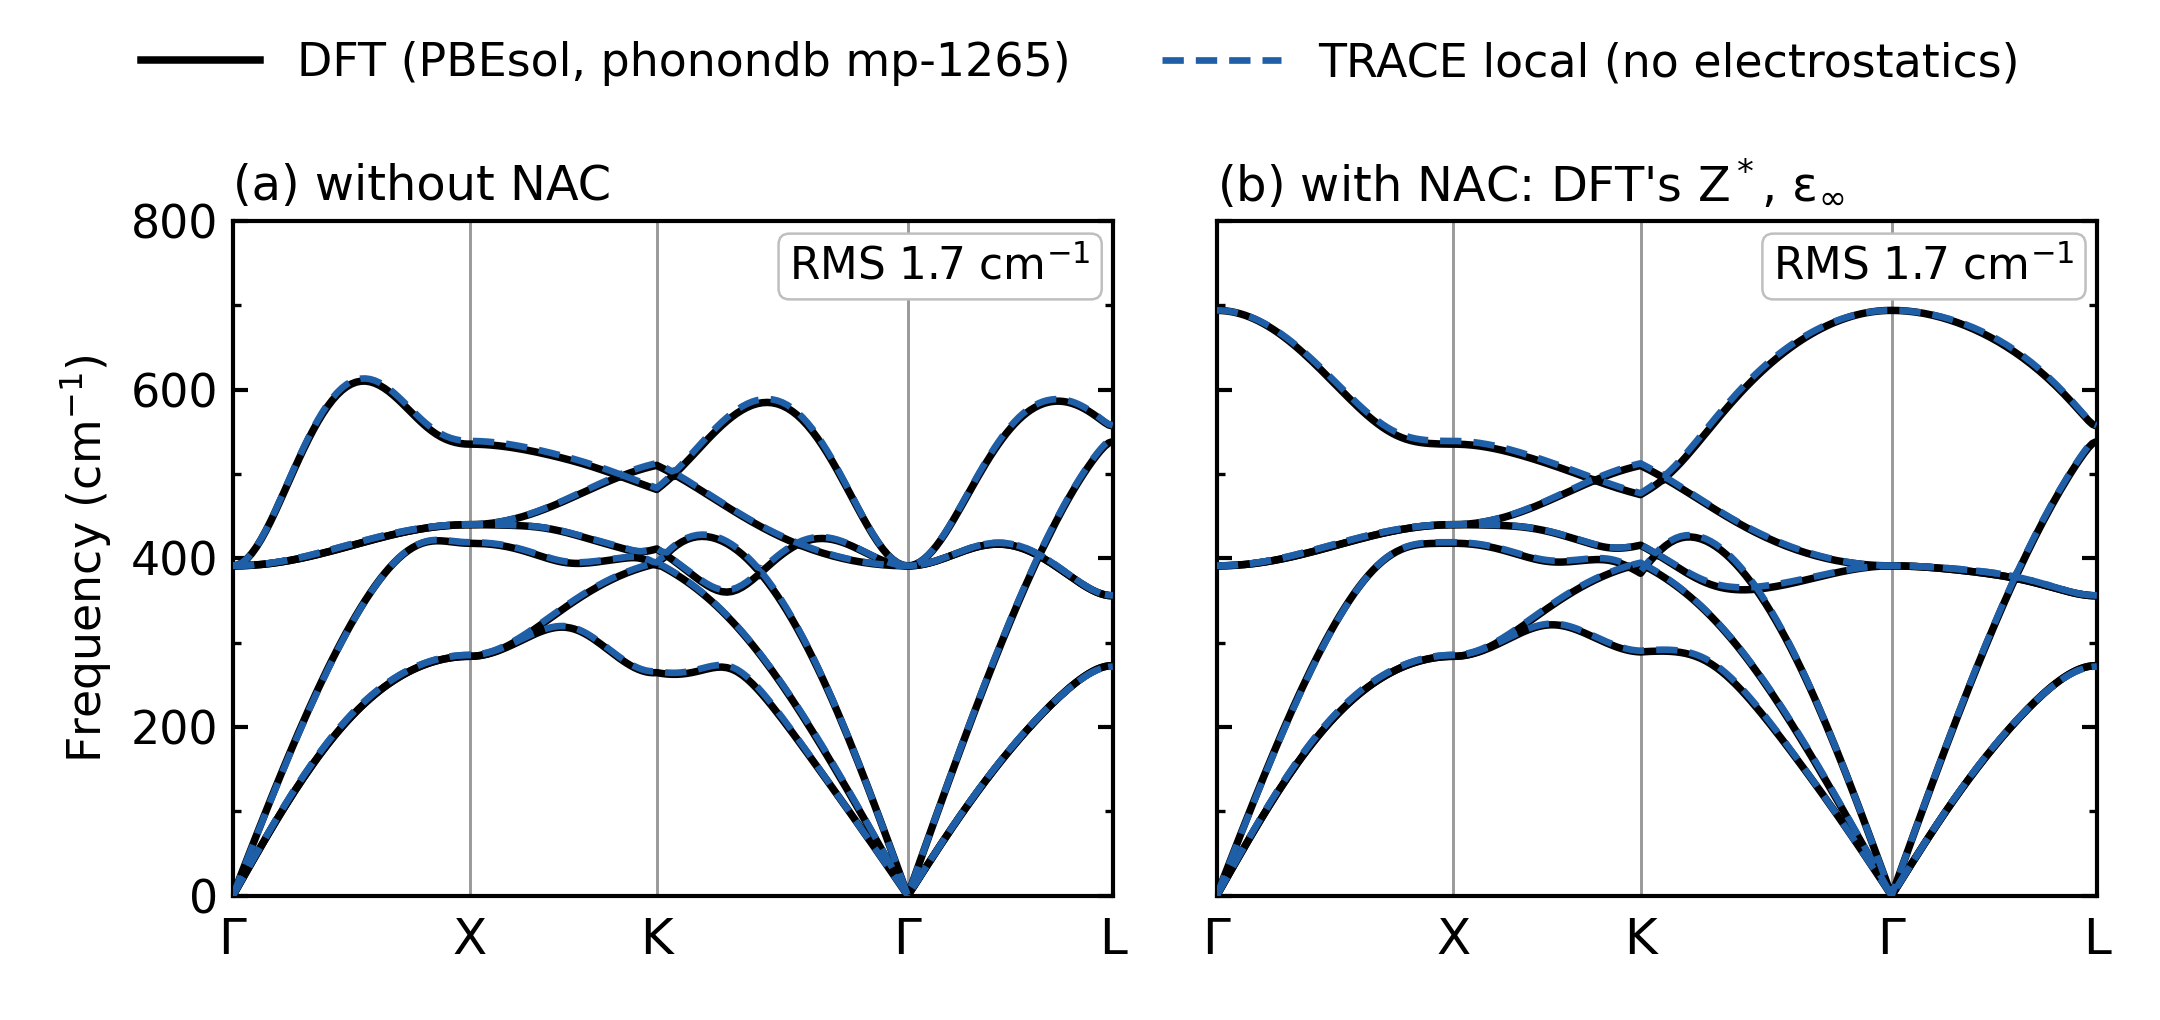
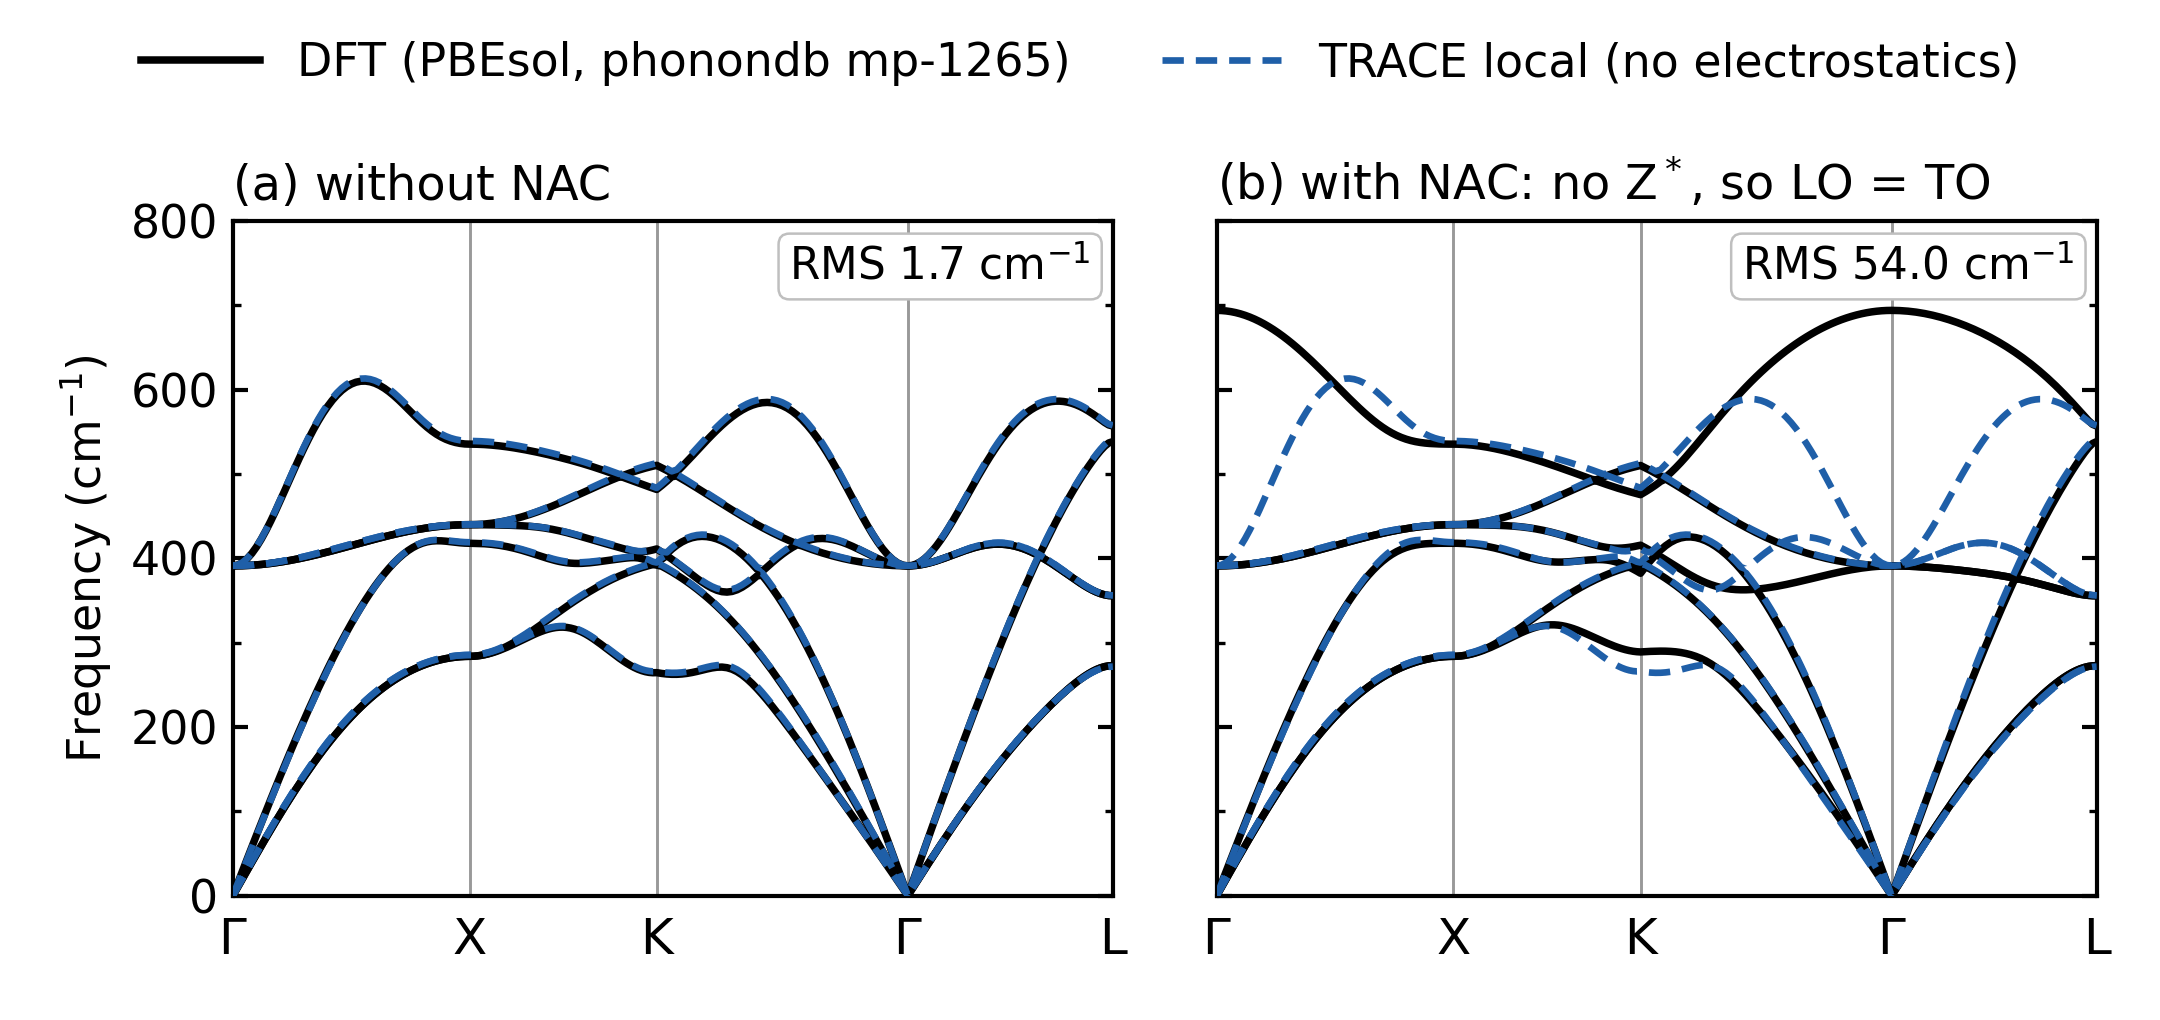
MgO local example: panel (b) is the model's own NAC band (LO = TO)
The figure's panel (b) showed the local model's force constants with DFT's
Z* (1.979) and eps_inf (3.242) supplied, so its LO-TO splitting (302.8 cm^-1)
was DFT's input, not a prediction: the model has no Born charges. Panel (b)
now shows the model's own NAC band against DFT with NAC: LO = TO = 391.2 cm^-1
(DFT 693.9), path RMS 54.0 cm^-1 (seed 43, epoch 40, the same checkpoint).
Panel (a) is unchanged (RMS 1.7). The replaced figure stays in the history
(c03ef78).

The DFT-supplied result (LO 694.0, RMS 1.7) stays in the tables, labelled as
DFT's input, and its plot command now writes a separate file. Root README and
example README text and tables say which numbers are the model's own.

diff --git a/examples/mgo_phonons_local/README.md b/examples/mgo_phonons_local/README.md
@@ -24,8 +24,8 @@ python examples/mgo_phonons_local/phonons_model.py examples/mgo_phonons_local/ru
 python examples/mgo_phonons_local/phonons_model.py examples/mgo_phonons_local/run --a 4.21726 --out examples/mgo_phonons_local/run/bands_dft_born --born-from examples/mgo_phonons_local/reference/MgO_PBEsol_phonondb_born.json
 python examples/mgo_phonons_local/score_bands.py examples/mgo_phonons_local/run/bands_own
 python examples/mgo_phonons_local/score_bands.py examples/mgo_phonons_local/run/bands_dft_born
-python examples/mgo_phonons_local/plot_bands.py examples/mgo_phonons_local/run/bands_own "TRACE local" examples/mgo_phonons_local/run/mgo_phonons_trace_local.png
-python examples/mgo_phonons_local/plot_bands.py examples/mgo_phonons_local/run/bands_dft_born "TRACE local (no electrostatics)" examples/mgo_phonons_local/run/mgo_phonons_trace_local_vs_pbesol.png --color "#1F5FA8" --nac-note 'DFT'"'"'s $Z^*$, $\epsilon_\infty$'
+python examples/mgo_phonons_local/plot_bands.py examples/mgo_phonons_local/run/bands_own "TRACE local (no electrostatics)" examples/mgo_phonons_local/run/mgo_phonons_trace_local_vs_pbesol.png --color "#1F5FA8" --nac-note 'no $Z^*$, so LO = TO'
+python examples/mgo_phonons_local/plot_bands.py examples/mgo_phonons_local/run/bands_dft_born "TRACE local + DFT's Z*, eps" examples/mgo_phonons_local/run/mgo_phonons_trace_local_dft_born.png --color "#1F5FA8" --nac-note 'DFT'"'"'s $Z^*$, $\epsilon_\infty$'
 ```
 
 - **Training:** `config.yaml` trains on forces only (`energy_weight: 0`) for 40 epochs of a 100-epoch cosine schedule,
@@ -44,17 +44,21 @@ python examples/mgo_phonons_local/plot_bands.py examples/mgo_phonons_local/run/b
 
 Vector version: [`mgo_phonons_trace_local_vs_pbesol.pdf`](mgo_phonons_trace_local_vs_pbesol.pdf).
 
+Panel (b) is the model's own band with NAC. The model has no Born charges, so it has no LO–TO splitting: LO = TO =
+391.2 cm⁻¹ at Γ, against DFT's 693.9.
+
 All values are in cm⁻¹ at a = 4.21726 Å against phonondb PBEsol. Path RMS is taken over Γ–X–K–Γ–L with the frequencies
 sorted at each q-point.
 
-| model | TO at Γ (DFT 391.0) | LO at Γ (DFT 693.9) | RMS without NAC | RMS with NAC, no Born charges | RMS with NAC, DFT's Z*, ε∞ |
+| model | TO at Γ (DFT 391.0) | LO at Γ (DFT 693.9) | RMS without NAC | RMS with NAC | DFT's Z*, ε∞ supplied: LO / RMS with NAC |
 |---|---|---|---|---|---|
-| seed 43, epoch 40 (figure) | 391.2 | 694.0 | 1.7 | 54.0 | 1.7 |
-| seed 42, epoch 39 | 392.8 | 694.9 | 2.7 | 53.7 | 2.7 |
+| seed 43, epoch 40 (figure) | 391.2 | = TO | 1.7 | 54.0 | 694.0 / 1.7 |
+| seed 42, epoch 39 | 392.8 | = TO | 2.7 | 53.7 | 694.9 / 2.7 |
 
-- The LO column uses DFT's Z* and ε∞. Without them the model has no LO–TO splitting, so LO = TO.
-- The "no Born charges" column compares the model's band, which has no LO–TO splitting, with DFT's band including the
-  NAC.
+- **LO and RMS with NAC** are the model's own. It has no Born charges, so LO = TO and its NAC band is its no-NAC band.
+  That band is compared with DFT's band including the NAC (panel b).
+- **The last column** applies DFT's Z* and ε∞ to the model's force constants. Its LO–TO splitting comes from DFT and is
+  not a prediction of the model. It shows only that the short-range force constants are right. It is not in the figure.
 
 **How these numbers were made.** The two runs used a development version of `train.py` with this config's settings:
 forces only and 40 epochs of a 100-epoch cosine schedule, with 2 CPU threads (this config sets 4). For seed 42 the table uses the best
@@ -80,8 +84,8 @@ took 36 minutes and its best checkpoint was at epoch 38:
   - A local model has no Born effective charges, so LO = TO at Γ.
   - The LO branch near Γ comes from the long-range dipole field. That needs Z* and ε∞, which here are taken from DFT
     (DFPT) through `--born-from`.
-  - With them supplied, the NAC band is as accurate as the no-NAC band, because the NAC is analytic once Z* and ε∞ are
-    known.
+  - With them supplied (the table's last column), the NAC band is as accurate as the no-NAC band, because the NAC is
+    analytic once Z* and ε∞ are known.
 - **With electrostatics:** [`../mgo_phonons_electrostatics`](../mgo_phonons_electrostatics) shows, as results only,
   TRACE with electrostatics on the same data. It predicts its own Z* and ε∞, with a NAC path RMS of 5.8–5.9 cm⁻¹.
 - **One material, one functional, one lattice constant.** This example does not test transferability to surfaces,

diff --git a/README.md b/README.md
@@ -157,8 +157,9 @@ long-range dipole term that splits the LO and TO modes at Γ and needs the Born 
 ![TRACE local against PBEsol DFT](examples/mgo_phonons_local/mgo_phonons_trace_local_vs_pbesol.png)
 
 - **Without NAC:** the local model reproduces the DFT bands to 1.7 cm⁻¹ RMS.
-- **With NAC:** it has no Born charges, so it has no LO–TO splitting (RMS 54.0 cm⁻¹). With DFT's Z* and ε∞ supplied
-  (panel b) it matches the DFT bands to 1.7 cm⁻¹.
+- **With NAC (panel b):** it has no Born charges, so it has no LO–TO splitting. LO = TO = 391.2 cm⁻¹ against DFT's
+  693.9, and the RMS is 54.0 cm⁻¹. It reaches 1.7 cm⁻¹ only when DFT's own Z* and ε∞ are supplied from outside (table).
+  That splitting comes from DFT, not from the model.
 - **Workflow:** data, training, phonons, scoring and plotting are in
   [`examples/mgo_phonons_local`](examples/mgo_phonons_local).
 
@@ -177,7 +178,7 @@ long-range dipole term that splits the LO and TO modes at Γ and needs the Born 
 | seed 43, a = 4.21726 Å | Z*(Mg) | ε∞ | TO at Γ (cm⁻¹) | LO at Γ (cm⁻¹) | RMS without NAC (cm⁻¹) | RMS with NAC (cm⁻¹) |
 |---|---|---|---|---|---|---|
 | DFT (PBEsol) | 1.979 | 3.242 | 391.0 | 693.9 | — | — |
-| TRACE local | — | — | 391.2 | 694.0 with DFT's Z*, ε∞ | 1.7 | 1.7 with DFT's Z*, ε∞; 54.0 without |
+| TRACE local | — | — | 391.2 | = TO (694.0 with DFT's Z*, ε∞) | 1.7 | 54.0 (1.7 with DFT's Z*, ε∞) |
 | TRACE + electrostatics | 1.943 | 3.541 | 396.7 | 668.7 | 3.0 | 5.8 |
 
 ## LAMMPS and PLUMED
